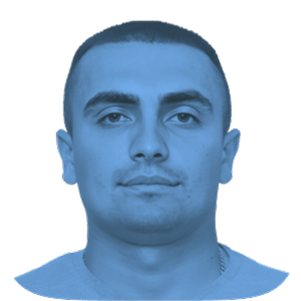
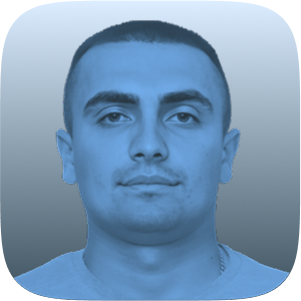
new-design

diff --git a/index.html b/index.html
@@ -9,12 +9,7 @@
 <body>
 <div id="scale-wrapper">
 
-<div class="lang-container">
-  <div class="lang-active"></div>
-  <span class="lang ua">UA</span>
-  <span class="lang eng">ENG</span>
-</div>
-
+  
 <section class="hero-section">
   <h1 class="main-title">
     ГЕРОЇ<br><span>НЕ ВМИРАЮТЬ</span>
@@ -29,11 +24,6 @@
   </p>
 
   <button class="fire-button">Запалити вогник</button>
-
-  <div class="counter">
-    <div class="number" id="fireCount">0</div>
-    <div class="label" id="fireLabel">вогника<br>запалено<br>сьогодні</div>
-  </div>
 
   <div class="stars-container"></div>
 
@@ -53,7 +43,7 @@
         <div class="hero-bg"></div>
         <img class="hero-face" src="img/popov.png" alt="Юрій Попов">
       </div>
-      <h3>ЮРІЙ<br>ПОПОВ</h3>
+      <h3>ПОПОВ<br>ЮРІЙ</h3>
       <p>Випускник<br>181 Харчові технології</p>
     </div>
 
@@ -81,7 +71,7 @@
         <img class="hero-face" src="img/legky.png" alt="Легкий Богдан">
       </div>
       <h3>ЛЕГКИЙ<br>БОГДАН</h3>
-      <p>Випускник<br>051 Економіка, підприємництво та економічної безпеки</p>
+      <p>Випускник<br>051 Економіка»</p>
     </div>
 
     <div class="hero-card">
@@ -89,7 +79,7 @@
         <div class="hero-bg"></div>
         <img class="hero-face" src="img/galushka.png" alt="Валерій Галушка">
       </div>
-      <h3>ВАЛЕРІЙ<br>ГАЛУШКА</h3>
+      <h3>ГАЛУШКА<br>ВАЛЕРІЙ</h3>
       <p>Випускник<br>071 Облік і оподаткування</p>
     </div>
 
@@ -99,7 +89,7 @@
         <img class="hero-face" src="img/korniychuk.png" alt="Корнійчук Владислав">
       </div>
       <h3>КОРНІЙЧУК<br>ВЛАДИСЛАВ</h3>
-      <p>Випускник<br>181 Харчові технології</p>
+      <p>Випускник<br>071 Облік і оподаткування</p>
     </div>
 
     <div class="hero-card">
@@ -117,7 +107,7 @@
         <img class="hero-face" src="img/plysa.png" alt="Плиса Карен">
       </div>
       <h3>ПЛИСА<br>КАРЕН</h3>
-      <p>Випускник<br>073 Менеджмент</p>
+      <p>Студент<br>073 Менеджмент</p>
     </div>
   </div>
 </section>
@@ -171,10 +161,13 @@
     <h3>На цьому онлайн-меморіалі ви можете</h3>
     <div class="button-grid">
       <div class="button-item">
-        <button>
-          <img src="img/penсil.svg" alt="">
-          Залишити напис
-        </button>
+        <a href="https://forms.gle/P1bwdMMbAHhYnnUw6" target="_blank">
+  <button>
+    <img src="img/penсil.svg" alt="">
+    Залишити напис
+  </button>
+</a>
+
         <p>Можна записати кілька слів вдячності, скорботи чи спогадів. Кожен напис буде розміщено на спільній дошці пам’яті нашого сайту.</p>
       </div>
       <div class="button-item">
@@ -185,10 +178,13 @@
         <p>Натисніть, щоб запалити віртуальний вогник на згадку про наших героїв. Кожен вогник – це світло пам’яті, що не згасає.</p>
       </div>
       <div class="button-item">
-        <button>
-          <img src="img/user.svg" alt="">
-          Додати героя
-        </button>
+        <a href="https://forms.gle/Sd4JSw9wC9YAqM6K6" target="_blank">
+  <button>
+    <img src="img/user.svg" alt="">
+    Додати героя
+  </button>
+</a>
+
         <p>Якщо ви знаєте ім’я студента або випускника ХНТУ, який загинув, захищаючи Україну — будь ласка, поділіться інформацією. Ми хочемо, щоб жодне ім’я не залишилось поза пам’яттю.</p>
       </div>
     </div>
@@ -211,7 +207,6 @@
 
     <div class="footer-right">
   <img src="img/kntu-logo.svg" alt="ХНТУ логотип" class="kntu-logo" />
-  <p class="kntu-signature">Херсонський<br>національний технічний<br>університет</p>
 </div>
 
 
@@ -225,15 +220,17 @@
   </p>
   <p class="footer-right-text">© 2025 Херсонський національний технічний університет</p>
 </div>
+</footer>
+<img src="img/star-groupe.png" class="star-overlay" alt="Світіння" />
+<img src="img/star.svg" class="manual-star" alt="Star" style="display: none;" />
 
-
-<button onclick="resetStars()">Скинути вогники</button>
+</div>
 
 <script src="script.js"></script>
 
 <script>
   function applyScale() {
-    const designWidth = 1920; // базова ширина Figma-макету
+    const designWidth = 1920;
     const currentWidth = window.innerWidth;
     const scale = currentWidth / designWidth;
 
@@ -247,7 +244,6 @@
   window.addEventListener('load', applyScale);
   window.addEventListener('resize', applyScale);
 </script>
-</div>
 
 </body>
 </html>

diff --git a/script.js b/script.js
@@ -1,77 +1,16 @@
-const uaBtn = document.querySelector('.ua');
-const engBtn = document.querySelector('.eng');
-const active = document.querySelector('.lang-active');
-
-let currentLang = localStorage.getItem('lang') || 'ua';
-setLanguage(currentLang);
-
-uaBtn.addEventListener('click', () => {
-  setLanguage('ua');
-});
-
-engBtn.addEventListener('click', () => {
-  setLanguage('eng');
-});
-
-function setLanguage(lang) {
-  currentLang = lang;
-  localStorage.setItem('lang', lang);
-
-  active.style.left = lang === 'ua' ? "0px" : "58px";
-
-  document.documentElement.lang = lang;
-  document.querySelectorAll('[data-ua], [data-eng]').forEach(el => {
-    el.innerHTML = lang === 'ua' ? el.getAttribute('data-ua') : el.getAttribute('data-eng');
-  });
-}
-
+// === Вогники ===
 const fireBtn = document.querySelector('.fire-button');
-const fireCount = document.getElementById('fireCount');
-const starsContainer = document.querySelector('.stars-container');
-
-let count = parseInt(localStorage.getItem('fireCount') || '0');
-let currentStars = parseInt(localStorage.getItem('starsShown') || '0');
-const maxStars = 100;
-
-fireCount.textContent = count;
-
-for (let i = 0; i < currentStars; i++) {
-  createStar();
-}
+const manualStar = document.querySelector('.manual-star'); // ВАЖЛИВО: не через getElementById!
 
 fireBtn.addEventListener('click', () => {
-  count++;
-  fireCount.textContent = count;
-  localStorage.setItem('fireCount', count);
-
-  fireCount.classList.add('flash');
-  setTimeout(() => {
-    fireCount.classList.remove('flash');
-  }, 400);
-
-  if (currentStars < maxStars) {
-    createStar();
-    currentStars++;
-    localStorage.setItem('starsShown', currentStars);
+  if (manualStar && manualStar.style.display !== 'block') {
+    manualStar.style.display = 'block';
+    manualStar.classList.add('blink');
   }
 });
 
-function createStar() {
-  const star = document.createElement('img');
-  star.src = 'img/star.svg';
-  star.classList.add('star');
-
-  const x = Math.random() * (window.innerWidth - 50);
-  const y = Math.random() * (window.innerHeight - 100);
-
-  star.style.left = `${x}px`;
-  star.style.top = `${y}px`;
-
-  starsContainer.appendChild(star);
-}
-
+// === Скрол до верху ===
 const scrollBtn = document.getElementById('scroll-to-top');
-
 if (scrollBtn) {
   scrollBtn.addEventListener('click', (e) => {
     e.preventDefault();
@@ -79,9 +18,7 @@ if (scrollBtn) {
   });
 }
 
-
+// === Скидання (необов'язково) ===
 function resetStars() {
-  localStorage.removeItem('fireCount');
-  localStorage.removeItem('starsShown');
   location.reload();
 }

diff --git a/styles.css b/styles.css
@@ -205,13 +205,14 @@ html, body {
 
 .dron {
   position: absolute;
-  top: 111.06px;
-  left: 502.98px;
-  width: 199.69px;
-  height: 122.28px;
+  top: 80.49px;
+  left: 453.05px;
+  width: 299.54px;
+  height: 183.42px;
   pointer-events: none;
   z-index: 1;
 }
+
 
 .subtitle {
   position: absolute;
@@ -239,45 +240,6 @@ html, body {
   color: rgba(255, 255, 255, 0.6);
   text-align: left;
   z-index: 2;
-}
-
-.lang-container {
-  position: absolute;
-  top: 110px;
-  right: 30px;
-  display: flex;
-  gap: 5px;
-  width: 116px;
-  height: 53px;
-  font-family: 'e-Ukraine', sans-serif;
-  font-size: 16px;
-  font-weight: 500;
-  color: #F5FAFF;
-}
-
-
-.lang {
-  width: 53px;
-  height: 53px;
-  display: flex;
-  align-items: center;
-  justify-content: center;
-  cursor: pointer;
-  z-index: 4;
-  user-select: none;
-  transition: color 0.25s ease;
-}
-
-.lang-active {
-  position: absolute;
-  top: 0;
-  left: 0;
-  width: 53px;
-  height: 53px;
-  background-color: #1357AB;
-  border-radius: 12px;
-  z-index: 2;
-  transition: all 0.3s ease;
 }
 
 .fire-button {
@@ -362,7 +324,6 @@ html, body {
   max-width: 1500px;
 }
 
-
 .hero-card {
   text-align: left;
   color: #F5FAFF;
@@ -386,22 +347,10 @@ html, body {
   margin-bottom: 8px;
 }
 
-
 .hero-card p {
   font-size: 16px;
   opacity: 0.8;
   line-height: 1.4;
-}
-
-.hero-photo-wrapper {
-  position: relative;
-  width: 280px;
-  height: 280px;
-  margin: 0 0 20px 0;
-
-  padding: 4px;
-  border-radius: 50px;
-  background: linear-gradient(135deg, #DBEDFF, #3B4F5C);
 }
 
 .hero-photo-wrapper .hero-bg {
@@ -414,17 +363,6 @@ html, body {
   z-index: 1;
   border-radius: 45px;
   display: none;
-}
-
-.hero-photo-wrapper .hero-face {
-  position: relative;
-  width: 100%;
-  height: 100%;
-  object-fit: cover;
-  border-radius: 45px;
-  z-index: 2;
-
-  background: #2B3942;
 }
 
 .tribute-section {
@@ -623,7 +561,7 @@ html, body {
 }
 
 .kntu-logo {
-  width: 300px;
+  width: 400px;
   margin-bottom: 12px;
 }
 
@@ -720,4 +658,36 @@ html, body {
   transform-origin: top left;
   width: 1920px;
   height: auto;
+}
+
+.star-overlay {
+  position: fixed;
+  top: -2%;
+  left: -11%;
+  width: 120vw;
+  height: auto;
+  z-index: 9999;
+  pointer-events: none;
+  opacity: 0.9;
+}
+
+.manual-star {
+  position: absolute;
+  top: -20px;
+  left: 120px;
+  width: 700px;
+  height: 700px;
+  z-index: 10;
+  pointer-events: none;
+  opacity: 0.9;
+  display: none;
+}
+
+@keyframes blink {
+  0%, 100% { opacity: 0.2; }
+  50% { opacity: 1; }
+}
+
+.blink {
+  animation: blink 2.5s infinite ease-in-out;
 }
